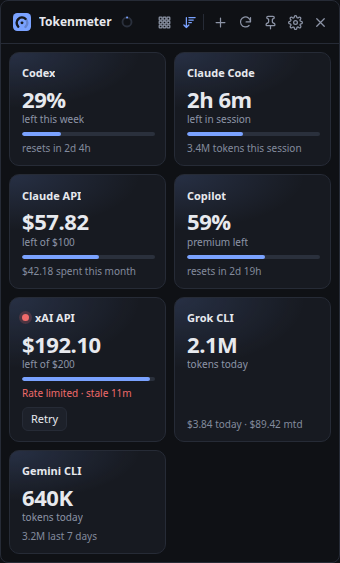
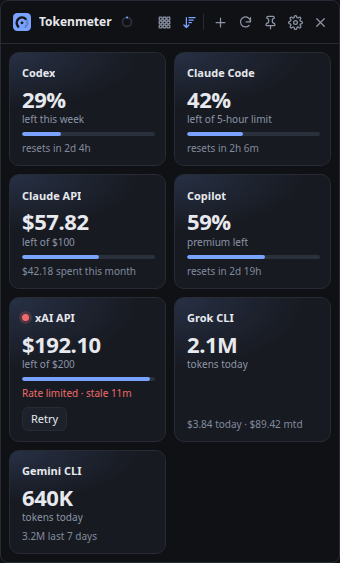
Screenshots and social image: Claude Code plan limits
Re-captured from demo mode so the Claude Code tile shows "42% left of
5-hour limit" with 5-hour and weekly meters, and re-rendered site/og.png.

Claude-Session: https://claude.ai/code/session_01KppNSDhZ8By7j2qPPK85ox

Changed region(s): [[0.5294, 0.151, 0.8824, 0.2718]]

diff --git a/site/index.html b/site/index.html
@@ -76,8 +76,8 @@
         <a class="button" href="https://github.com/mugeshk97/tokenmeter">View on GitHub</a>
       </div>
       <figure class="shots">
-        <img src="screenshots/compact-dark.png" width="340" height="564" alt="Tokenmeter in Compact size, dark theme: Codex 29% left this week, Claude Code 2h 6m left in session, Claude API $57.82 left of $100, Copilot 59% premium requests left">
-        <img src="screenshots/normal-light.png" width="340" height="947" alt="Tokenmeter in Normal size, light theme: each card with its limits, bars and key stats" class="second">
+        <img src="screenshots/compact-dark.png" width="340" height="564" alt="Tokenmeter in Compact size, dark theme: Codex 29% left this week, Claude Code 42% left of 5-hour limit, Claude API $57.82 left of $100, Copilot 59% premium requests left">
+        <img src="screenshots/normal-light.png" width="340" height="964" alt="Tokenmeter in Normal size, light theme: each card with its limits, bars and key stats" class="second">
         <figcaption>Compact (dark) and Normal (light), with sample data.</figcaption>
       </figure>
     </section>
